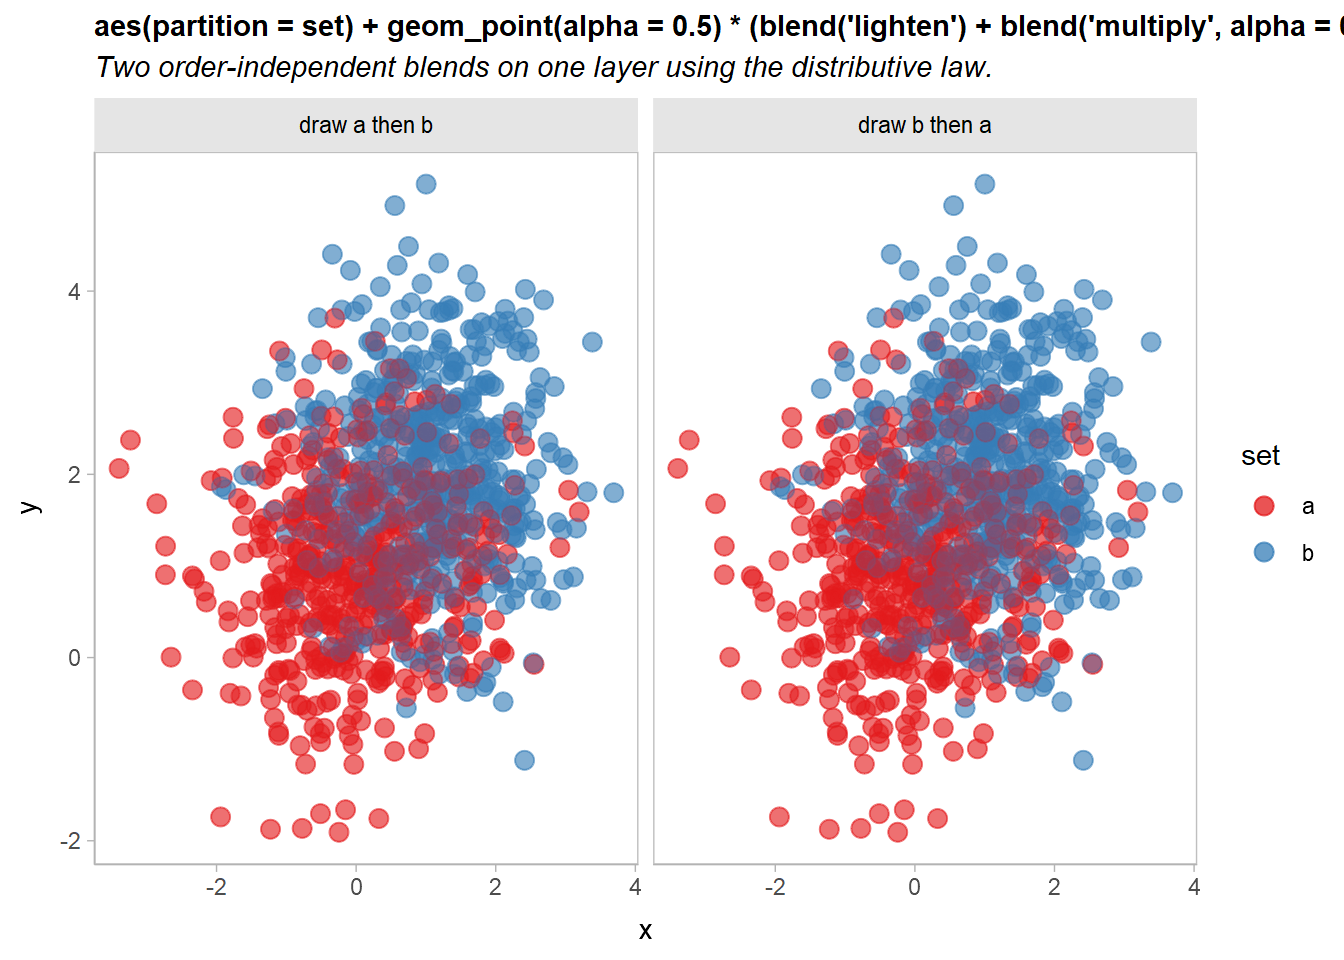
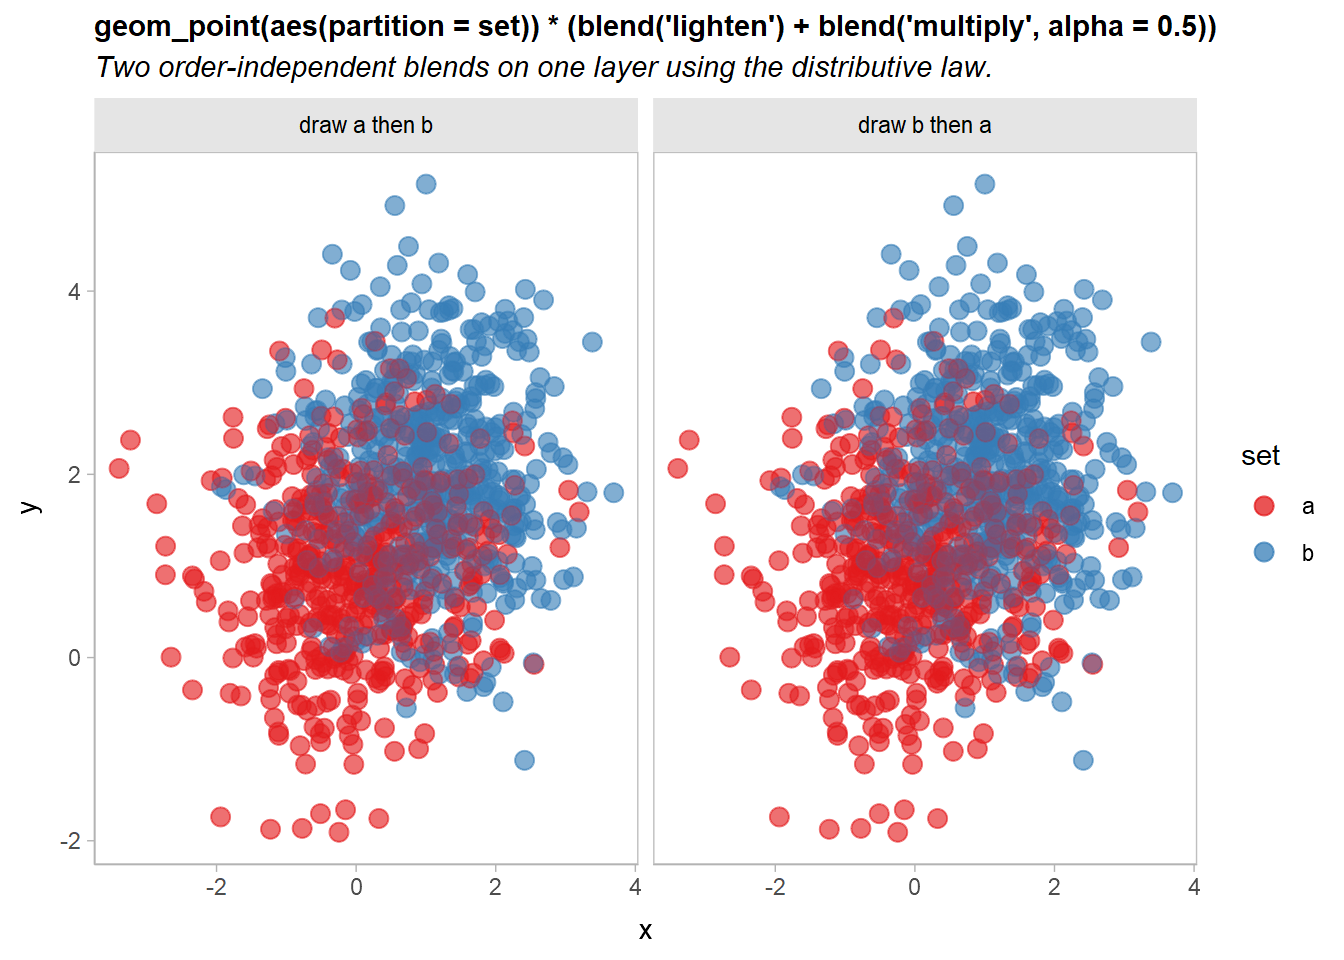
minor readme improvements

Changed region(s): [[0.0625, 0.0, 1.0, 0.0625]]

diff --git a/README.md b/README.md
@@ -199,7 +199,7 @@ df |>
   scale_color_brewer(palette = "Set1") +
   facet_grid(~ order) +
   labs(
-    title = "aes(partition = set) + geom_point(alpha = 0.5) * (blend('lighten') + blend('multiply', alpha = 0.5))",
+    title = "geom_point(aes(partition = set)) * (blend('lighten') + blend('multiply', alpha = 0.5))",
     subtitle = "Two order-independent blends on one layer using the distributive law."
   ) +
   theme(plot.subtitle = element_text(lineheight = 1.2))
@@ -407,7 +407,7 @@ geom_line(linewidth = 1)
 To add a white outline, you might want something like:
 
 ``` r
-geom_line(color = "white", linewidth = 2) + geom_line(linewidth = 1)
+geom_line(color = "white", linewidth = 2.5) + geom_line(linewidth = 1)
 ```
 
 However, we’d rather not have to write the `geom_line()` specification
@@ -418,14 +418,14 @@ factor out `geom_line(linewidth = 1)` and write the above specification
 as:
 
 ``` r
-geom_line(linewidth = 1) * (adjust(color = "white", linewidth = 2) + 1)
+geom_line(linewidth = 1) * (adjust(color = "white", linewidth = 2.5) + 1)
 ```
 
 The `copy_under(...)` operation, which is a synonym for
 `adjust(...) + 1`, also implements this pattern:
 
 ``` r
-geom_line(linewidth = 1) * copy_under(color = "white", linewidth = 2)
+geom_line(linewidth = 1) * copy_under(color = "white", linewidth = 2.5)
 ```
 
 Here’s an example highlighting the fit lines from our previous
@@ -438,13 +438,13 @@ predictions |>
     aes(ydist = mu_hat, fill_ramp = after_stat(.width)),
     .width = ppoints(40)
   ) |> partition(vars(cyl)) |> blend("multiply") +
-  geom_line(aes(y = median(mu_hat)), linewidth = 1) |> copy_under(color = "white", linewidth = 2) +
+  geom_line(aes(y = median(mu_hat)), linewidth = 1) |> copy_under(color = "white", linewidth = 2.5) +
   geom_point(aes(y = mpg), data = mtcars) +
   scale_fill_brewer(palette = "Set2") +
   scale_color_brewer(palette = "Dark2") +
   ggdist::scale_fill_ramp_continuous(range = c(1, 0)) +
   labs(
-    title = "geom_line() |> copy_under(color = 'white', linewidth = 2)", 
+    title = "geom_line() |> copy_under(color = 'white', linewidth = 2.5)", 
     subtitle = "Highlights the line layer without manually copying its specification.",
     color = "cyl", fill = "cyl", y = "mpg"
   ) 
